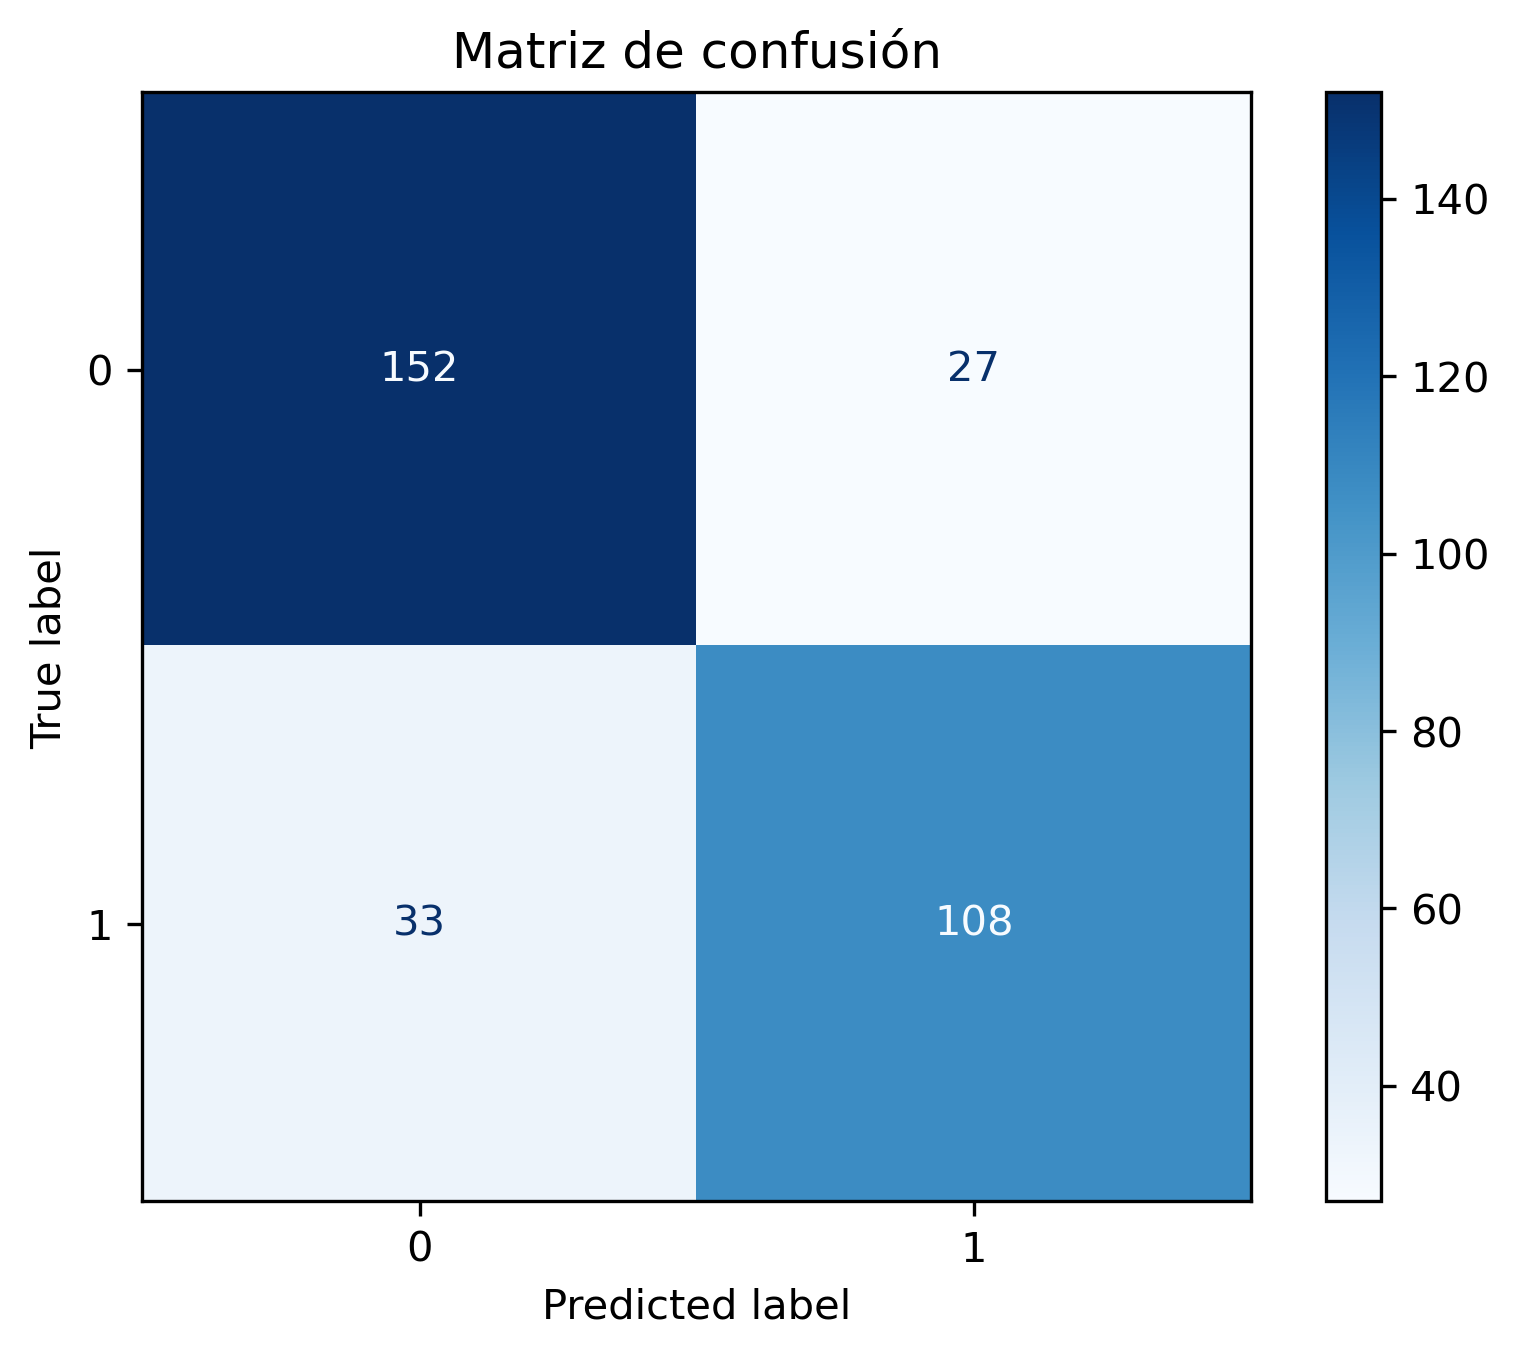
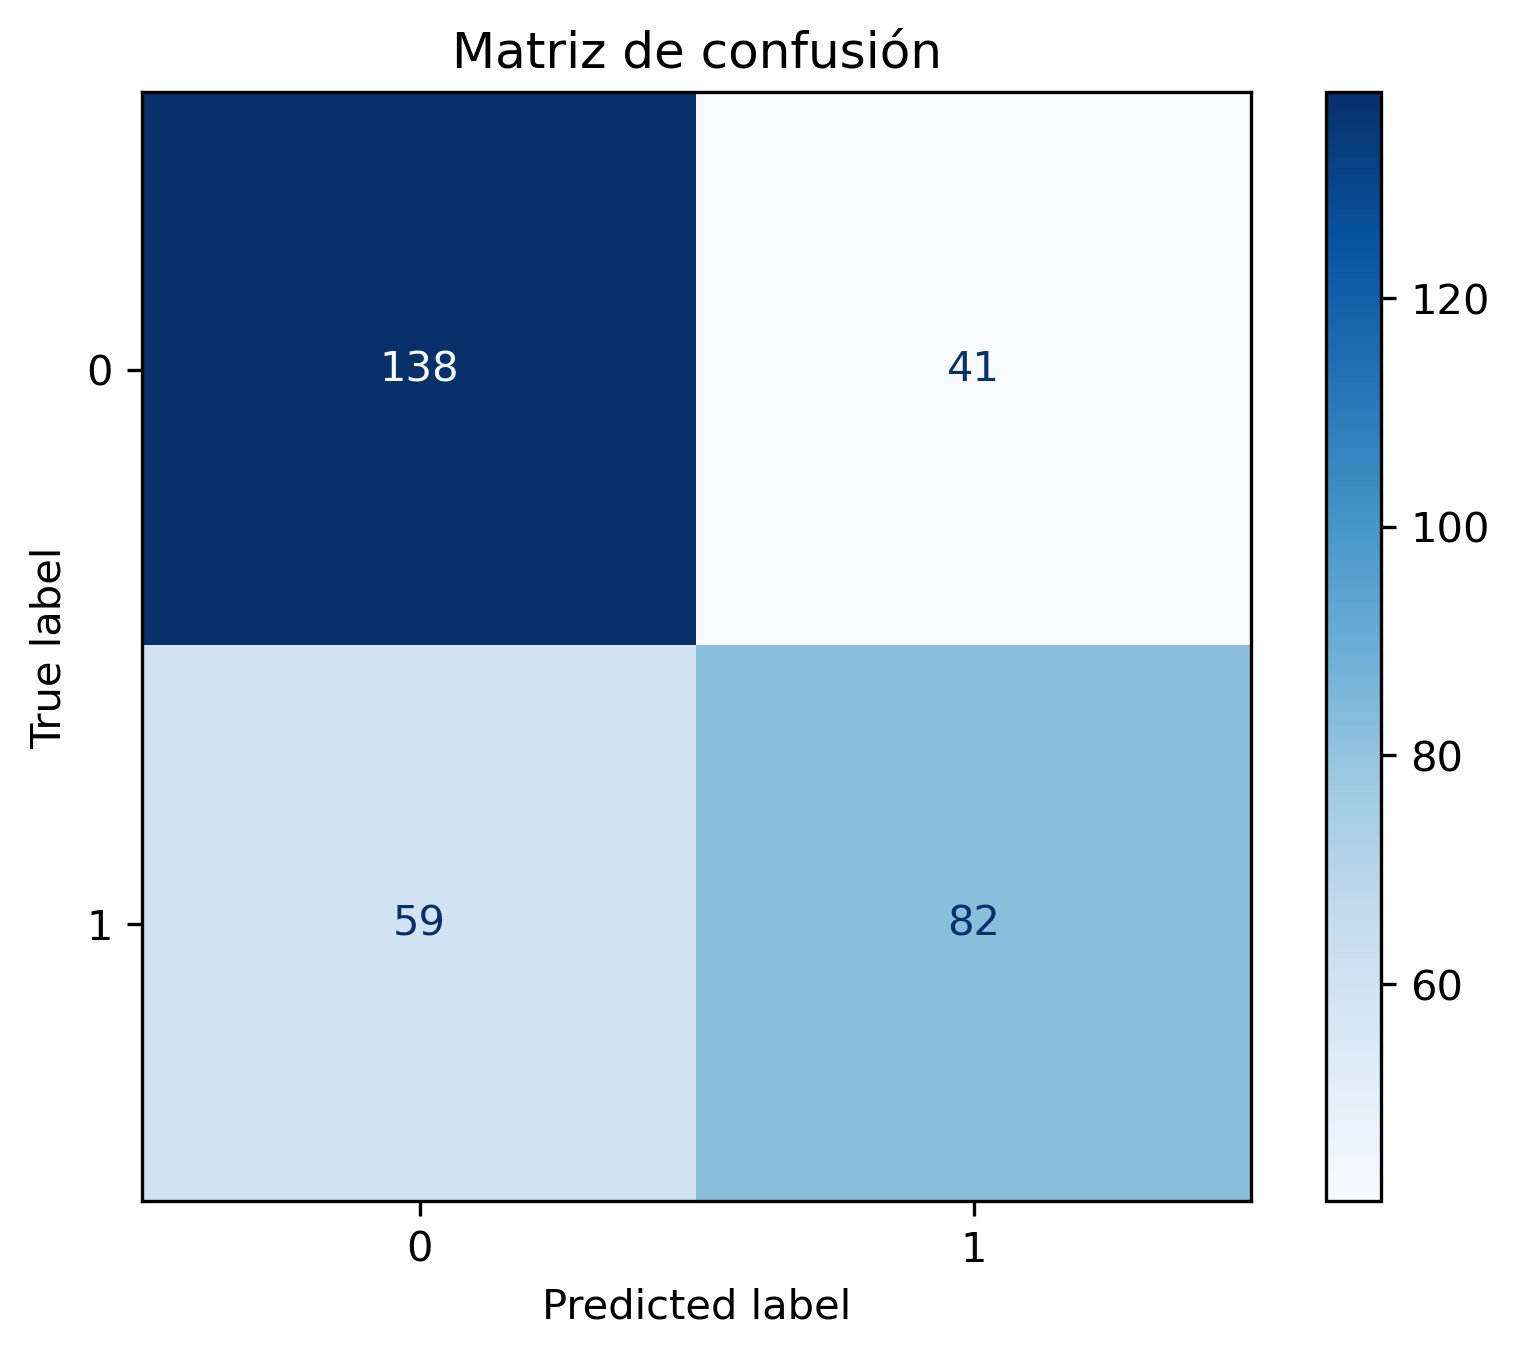
Agrega modelo

diff --git a/core/modelos/modelo_perceptron.py b/core/modelos/modelo_perceptron.py
@@ -1,0 +1,76 @@
+# Librerías
+from sklearn.linear_model import Perceptron
+from sklearn.model_selection import cross_val_score, GridSearchCV
+from sklearn.metrics import classification_report, confusion_matrix
+
+# 9. **Perceptron**
+class PerceptronClasificador:
+    '''Implementacón con grilla de hiperparámetros'''
+    def __init__(self, X_train, X_test, y_train, y_test):
+        self.X_train=X_train
+        self.X_test=X_test
+        self.y_train=y_train
+        self.y_test=y_test
+        self.y_pred=None
+        self.perceptron_model=None
+        self.grid_search=None
+        self.best_model=None
+        self.best_hiperparametros=None
+
+    def definir_modelo(self, penalty=['l1','l2',None], alpha=[0.0001,0.001,0.01], max_iter=[100], scoring='roc_auc', cv=None): # sin cv
+
+        '''Crea el modelo'''
+        self.perceptron_model = Perceptron()
+        print("\nModelo definido!\n")
+        
+        '''Define la grilla'''
+        param_grid = {
+            'penalty':penalty, # Penalidad
+            'alpha': alpha, # Alpha
+            'max_iter':max_iter # Máximo de iteraciones
+            }
+        
+        self.grid_search = GridSearchCV(
+        estimator=self.perceptron_model, 
+        param_grid=param_grid, 
+        scoring=scoring, 
+        cv=cv,  # Validación cruzada
+        verbose=1, 
+        n_jobs=-1
+        )
+    
+    def entrenar_modelo(self):
+        '''Entrena el modelo con la grilla'''
+        if self.grid_search is None:
+            raise ValueError("Se debe definir el modelo")
+        else:
+            self.grid_search.fit(self.X_train, self.y_train)
+
+        # Mejores hiperparámetros
+        self.best_hiperparametros=self.grid_search.best_params_
+
+        print("\nMejores hiperparámetros:\n")
+        print(self.best_hiperparametros)
+
+        print("\nModelo asignado!\n")
+        self.best_model = self.grid_search.best_estimator_
+
+    def reporte(self):
+        '''Reporte métricas'''
+        self.y_pred = self.best_model.predict(self.X_test)
+        print("\nReporte de clasificación mejor modelo:\n")
+        print(classification_report(self.y_test, self.y_pred))
+        return self.y_pred
+
+    def matriz_confusion(self):
+        '''Matriz de confusión'''
+        print("\nMatriz de confusión:\n")
+        print(confusion_matrix(self.y_test, self.y_pred))
+    
+    def predecir(self, X):
+        '''Predecir con el mejor modelo entrenado'''
+        if self.best_model is None:
+            raise ValueError("El modelo no ha sido entrenado")
+        else:
+            y = self.best_model.predict(X)
+        return y

diff --git a/main.py b/main.py
@@ -30,6 +30,7 @@ from core.modelos.modelo_ann import AnnClasificador
 from core.modelos.modelo_ensamble import EnsableModelos
 from core.modelos.modelo_adab import AdaBoostClasificador
 from core.modelos.modelo_histgbm import HistGradienteClasificador
+from core.modelos.modelo_perceptron import PerceptronClasificador
 
 from core.evaluacion import Evaluacion
 from core.modelos.error_rf import BosqueAleatorioError
@@ -363,6 +364,7 @@ modelo_ada.entrenar_modelo()
 y_pred=modelo_ada.predecir(X_test)
 '''
 # Modelo HistGradientBoosting
+'''
 modelo_hgbm=HistGradienteClasificador(X_train, X_test, y_train, y_test)
 
 learning_rate=[0.01, 0.1, 0.2] # Tasa de aprendizaje
@@ -374,6 +376,19 @@ cv=5
 modelo_hgbm.definir_modelo(learning_rate, max_iter, max_depth, scoring, cv)
 modelo_hgbm.entrenar_modelo()
 y_pred=modelo_hgbm.predecir(X_test)
+'''
+# Modelo Perceptron
+modelo_perceptron=PerceptronClasificador(X_train, X_test, y_train, y_test)
+
+penalty=['l1','l2',None] # Penalidad
+alpha=[0.0001,0.001,0.01] # Alpha
+max_iter=[100] # Máximo de iteraciones
+scoring='f1'
+cv=5
+
+modelo_perceptron.definir_modelo(penalty, alpha, max_iter ,scoring, cv)
+modelo_perceptron.entrenar_modelo()
+y_pred=modelo_perceptron.predecir(X_test)
 
 # Evaluación
 evaluacion=Evaluacion(y_test, y_pred)
